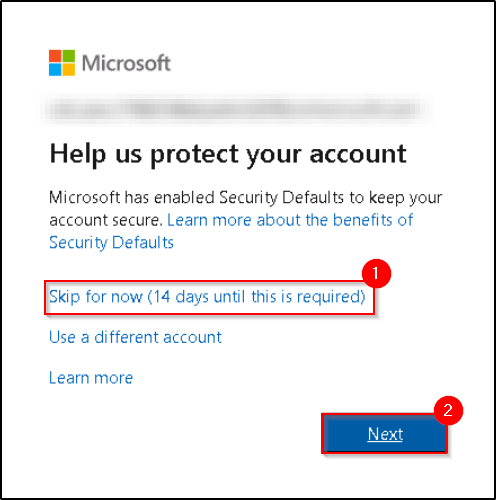
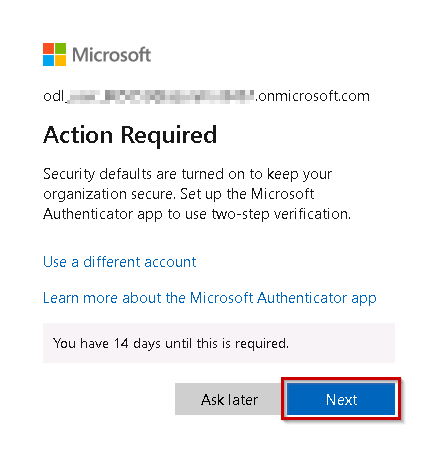
Security pop up update

diff --git a/masterdoc/01.md b/masterdoc/01.md
@@ -50,7 +50,7 @@
 
 8. First-time users are often prompted to **Stay Signed In**, if you see this pop-up, click on **Yes**.
 
-9. If you see the pop-up **Help us protect your account**, click on **Skip for now( 14 days until this is required)**, and then click on **Next**.
+9. If you see the pop-up **Action Required**, keep default and then click on **Next**.
 
    ![SecurityPopup](https://github.com/CloudLabsAI-Azure/Ignite-lab/blob/main/media/securitypopup.png?raw=true)
 
